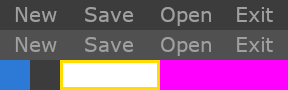
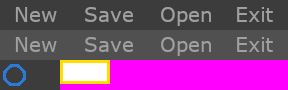
level editor

Changed region(s): [[0.1875, 0.6667, 0.5625, 1.0], [0.0, 0.6667, 0.125, 1.0]]

diff --git a/source/leveleditor.c b/source/leveleditor.c
@@ -2,43 +2,56 @@
 
 #include<stdio.h>
 #include<stdlib.h>
+#include<string.h>
 
 extern HeroCore* core;
 
-static void leveleditorclose(void**ptr);
+static void levelEditorclose(void**ptr);
 static void constructToolWidget(GameLevelEditor* levelEditor);
 static void update(GameLevelEditor* levelEditor);
 static void draw(GameLevelEditor* levelEditor);
+static void loadBricksInfo(GameLevelEditor* levelEditor);
+static void selectBrick(GameLevelEditor* levelEditor, uint32_t index);
 
+static void newBtnClick(void* arg);
+static void saveBtnClick(void* arg);
+static void openBtnClick(void* arg);
+static void exitBtnClick(void* arg);
 
 void* gameLevelEditorInit()
 {
-  GameLevelEditor* leveleditor = (GameLevelEditor*)malloc(sizeof(GameLevelEditor));
+  GameLevelEditor* levelEditor = (GameLevelEditor*)malloc(sizeof(GameLevelEditor));
+  levelEditor->changed = false;
+  levelEditor->currentBrick = 0;
 
-  leveleditor->input = heroCoreModuleGet(core, "input");
+  levelEditor->input = heroCoreModuleGet(core, "input");
 
-  leveleditor->shader = heroShaderLoad("assets/shaders/shader.vert","assets/shaders/shader.frag");
-  leveleditor->levelEditorSpriteSheet = gameSpriteSheetLoad("assets/debug/LevelEditor.he");
+  levelEditor->shader = heroShaderLoad("assets/shaders/shader.vert","assets/shaders/shader.frag");
+  levelEditor->levelEditorSpriteSheet = gameSpriteSheetLoad("assets/debug/LevelEditor.he");
+  levelEditor->brickSpriteSheet = gameSpriteSheetLoad("assets/sprites/Bricks.he");
+  loadBricksInfo(levelEditor);
 
-  leveleditor->mainWindow = heroCoreModuleGet(core, "window");
-  leveleditor->mainSdlWindow = heroWindowGetSdlWindow(leveleditor->mainWindow);
-  heroWindowSetBackgroundColor(leveleditor->mainWindow, (HeroColor){0,255,0,255});
+  levelEditor->mainWindow = heroCoreModuleGet(core, "window");
+  levelEditor->mainSdlWindow = heroWindowGetSdlWindow(levelEditor->mainWindow);
+  heroWindowSetBackgroundColor(levelEditor->mainWindow, (HeroColor){0,255,0,255});
 
-  leveleditor->mainSpriteBatch = heroSpriteBatchInit(leveleditor->mainWindow, 10, 10, leveleditor->shader);
+  levelEditor->mainSpriteBatch = heroSpriteBatchInit(levelEditor->mainWindow, 10, 10, levelEditor->shader);
 
 
-  leveleditor->toolWindow = heroWindowInit("LevelEditorTools", 640, 480, 0);
-  heroWindowSetBackgroundColor(leveleditor->toolWindow, (HeroColor){0x1E,0x1E,0x1E,0xFF});
-  heroWindowSetEvent(leveleditor->toolWindow, HERO_WINDOW_CLOSE, leveleditorclose);
-  leveleditor->toolSdlWindow = heroWindowGetSdlWindow(leveleditor->toolWindow);
+  levelEditor->toolWindow = heroWindowInit("LevelEditorTools", 640, 480, 0);
+  glEnable( GL_BLEND );
+  glBlendFunc( GL_SRC_ALPHA, GL_ONE_MINUS_SRC_ALPHA );
+  heroWindowSetBackgroundColor(levelEditor->toolWindow, (HeroColor){0x1E,0x1E,0x1E,0xFF});
+  heroWindowSetEvent(levelEditor->toolWindow, HERO_WINDOW_CLOSE, levelEditorclose);
+  levelEditor->toolSdlWindow = heroWindowGetSdlWindow(levelEditor->toolWindow);
   HeroEvent* event = heroCoreModuleGet(core, "event");
-  heroEventAddWindow(event, leveleditor->toolWindow);
+  heroEventAddWindow(event, levelEditor->toolWindow);
 
-  leveleditor->toolSpriteBatch = heroSpriteBatchInit(leveleditor->toolWindow, 10, 10, leveleditor->shader);
+  levelEditor->toolSpriteBatch = heroSpriteBatchInit(levelEditor->toolWindow, 10, 10, levelEditor->shader);
 
-  constructToolWidget(leveleditor);
+  constructToolWidget(levelEditor);
 
-  return leveleditor;
+  return levelEditor;
 }
 
 void gameLevelEditorUpdate(void* ptr)
@@ -53,17 +66,25 @@ void gameLevelEditorUpdate(void* ptr)
 
 void gameLevelEditorDestroy(void* ptr)
 {
-  GameLevelEditor* leveleditor = (GameLevelEditor*)ptr;
+  GameLevelEditor* levelEditor = (GameLevelEditor*)ptr;
 
-  gameSpriteSheetUnload(leveleditor->levelEditorSpriteSheet);
+  uiWidgetDestroy(levelEditor->toolWidget);
 
-  heroShaderUnload(leveleditor->shader);
-  heroSpriteBatchDestroy(leveleditor->toolSpriteBatch);
-  heroSpriteBatchDestroy(leveleditor->mainSpriteBatch);
+  for(int i = 1; i <= levelEditor->brickSpriteSheet->length; i++)
+  {
+    free(levelEditor->infoText[i]);
+  }
+
+  gameSpriteSheetUnload(levelEditor->levelEditorSpriteSheet);
+  gameSpriteSheetUnload(levelEditor->brickSpriteSheet);
+
+  heroShaderUnload(levelEditor->shader);
+  heroSpriteBatchDestroy(levelEditor->toolSpriteBatch);
+  heroSpriteBatchDestroy(levelEditor->mainSpriteBatch);
 
   HeroEvent* event = heroCoreModuleGet(core, "event");
-  heroEventRemoveWindow(event, leveleditor->toolWindow);
-  heroWindowDestroy(leveleditor->toolWindow);
+  heroEventRemoveWindow(event, levelEditor->toolWindow);
+  heroWindowDestroy(levelEditor->toolWindow);
 
   free(ptr);
 }
@@ -73,6 +94,24 @@ static void update(GameLevelEditor* levelEditor)
   if(heroWindowIsFocused(levelEditor->toolWindow) == true)
   {
     uiWidgetUpdate(levelEditor->toolWidget, levelEditor->input);
+
+    int mouseX, mouseY;
+    heroInputGetMousePosition(levelEditor->input, &mouseX, &mouseY);
+    bool leftMouseClick = heroInputMouseButtonDown(levelEditor->input, HERO_MOUSE_LEFT);
+    if(leftMouseClick == true && mouseX > 70 && mouseX < 570 && mouseY > 100 && mouseY < 340)
+    {
+      int normX = mouseX - 70;
+      int normY = mouseY - 100;
+      int iX = normX / 50;
+      int iY = normY / 24;
+      int index = 10 * iY + iX + 1;
+      if(index > levelEditor->brickSpriteSheet->length)
+      {
+        index = 0;
+      }
+
+      selectBrick(levelEditor, index);
+    }
   }
 }
 
@@ -107,7 +146,7 @@ static void draw(GameLevelEditor* levelEditor)
   }
 }
 
-static void leveleditorclose(void** ptr)
+static void levelEditorclose(void** ptr)
 {
   GameState* state = heroCoreModuleGet(core, "state");
   gameStateChange(state, GAMESTATE_MENU);
@@ -128,6 +167,7 @@ static void constructToolWidget(GameLevelEditor* levelEditor)
   uiButtonSetStateRect(levelEditor->toolWidget->buttons[0],UIBUTTONSTATE_NORMAL,normal);
   uiButtonSetStateRect(levelEditor->toolWidget->buttons[0],UIBUTTONSTATE_HOVER,highlight);
   uiButtonSetStateRect(levelEditor->toolWidget->buttons[0],UIBUTTONSTATE_CLICK,highlight);
+  uiButtonSetClickFunc(levelEditor->toolWidget->buttons[0], newBtnClick, NULL);
 
   normal = gameSpriteSheetGetRect(levelEditor->levelEditorSpriteSheet, 
     gameSpriteSheetGet(levelEditor->levelEditorSpriteSheet, "saveBtnD"));
@@ -138,6 +178,7 @@ static void constructToolWidget(GameLevelEditor* levelEditor)
   uiButtonSetStateRect(levelEditor->toolWidget->buttons[1],UIBUTTONSTATE_NORMAL,normal);
   uiButtonSetStateRect(levelEditor->toolWidget->buttons[1],UIBUTTONSTATE_HOVER,highlight);
   uiButtonSetStateRect(levelEditor->toolWidget->buttons[1],UIBUTTONSTATE_CLICK,highlight);
+  uiButtonSetClickFunc(levelEditor->toolWidget->buttons[1], saveBtnClick, NULL);
 
   normal = gameSpriteSheetGetRect(levelEditor->levelEditorSpriteSheet, 
     gameSpriteSheetGet(levelEditor->levelEditorSpriteSheet, "openBtnD"));
@@ -148,6 +189,7 @@ static void constructToolWidget(GameLevelEditor* levelEditor)
   uiButtonSetStateRect(levelEditor->toolWidget->buttons[2],UIBUTTONSTATE_NORMAL,normal);
   uiButtonSetStateRect(levelEditor->toolWidget->buttons[2],UIBUTTONSTATE_HOVER,highlight);
   uiButtonSetStateRect(levelEditor->toolWidget->buttons[2],UIBUTTONSTATE_CLICK,highlight);
+  uiButtonSetClickFunc(levelEditor->toolWidget->buttons[2], openBtnClick, NULL);
 
   normal = gameSpriteSheetGetRect(levelEditor->levelEditorSpriteSheet, 
     gameSpriteSheetGet(levelEditor->levelEditorSpriteSheet, "exitBtnD"));
@@ -158,19 +200,121 @@ static void constructToolWidget(GameLevelEditor* levelEditor)
   uiButtonSetStateRect(levelEditor->toolWidget->buttons[3],UIBUTTONSTATE_NORMAL,normal);
   uiButtonSetStateRect(levelEditor->toolWidget->buttons[3],UIBUTTONSTATE_HOVER,highlight);
   uiButtonSetStateRect(levelEditor->toolWidget->buttons[3],UIBUTTONSTATE_CLICK,highlight);
+  uiButtonSetClickFunc(levelEditor->toolWidget->buttons[3], exitBtnClick, NULL);
 
-  levelEditor->toolWidget->imageNumber = 3;
+  levelEditor->toolWidget->imageNumber = 6;
   levelEditor->toolWidget->images = (UIImage**)malloc(levelEditor->toolWidget->imageNumber * sizeof(UIImage*));
   levelEditor->toolWidget->images[0] = uiImageCreate(levelEditor->levelEditorSpriteSheet->texture,
     (HeroInt2){0,0}, (HeroInt2){30,30});
   uiImageSetRect(levelEditor->toolWidget->images[0], gameSpriteSheetGetRect(levelEditor->levelEditorSpriteSheet, 
     gameSpriteSheetGet(levelEditor->levelEditorSpriteSheet, "logo")));
   levelEditor->toolWidget->images[1] = uiImageCreate(levelEditor->levelEditorSpriteSheet->texture,
-    (HeroInt2){65,65}, (HeroInt2){510,310});
+    (HeroInt2){65,95}, (HeroInt2){510,250});
   uiImageSetRect(levelEditor->toolWidget->images[1], gameSpriteSheetGetRect(levelEditor->levelEditorSpriteSheet, 
     gameSpriteSheetGet(levelEditor->levelEditorSpriteSheet, "panel")));
   levelEditor->toolWidget->images[2] = uiImageCreate(levelEditor->levelEditorSpriteSheet->texture,
     (HeroInt2){0,420}, (HeroInt2){640,60});
   uiImageSetRect(levelEditor->toolWidget->images[2], gameSpriteSheetGetRect(levelEditor->levelEditorSpriteSheet, 
     gameSpriteSheetGet(levelEditor->levelEditorSpriteSheet, "panel")));
+  levelEditor->toolWidget->images[3] = uiImageCreate(levelEditor->levelEditorSpriteSheet->texture,
+    (HeroInt2){normal.z+30,0}, (HeroInt2){640-normal.z,30});
+  uiImageSetRect(levelEditor->toolWidget->images[3], gameSpriteSheetGetRect(levelEditor->levelEditorSpriteSheet, 
+    gameSpriteSheetGet(levelEditor->levelEditorSpriteSheet, "panel")));
+  levelEditor->toolWidget->images[4] = uiImageCreate(levelEditor->brickSpriteSheet->texture,
+    (HeroInt2){70,100}, (HeroInt2){500,240});
+  levelEditor->toolWidget->images[5] = uiImageCreate(levelEditor->levelEditorSpriteSheet->texture,
+    (HeroInt2){70,100}, (HeroInt2){50,24});
+  uiImageSetRect(levelEditor->toolWidget->images[5], gameSpriteSheetGetRect(levelEditor->levelEditorSpriteSheet, 
+    gameSpriteSheetGet(levelEditor->levelEditorSpriteSheet, "highlight")));
+  levelEditor->toolWidget->images[5]->visible = false;
+
+  levelEditor->toolWidget->labelNumber = levelEditor->brickSpriteSheet->length + 1;
+  levelEditor->toolWidget->labels = (UILabel**)malloc(levelEditor->toolWidget->labelNumber * sizeof(UILabel*));
+  HeroFont* font = heroFontLoad("assets/fonts/arial.ttf", 18);
+  for(int i = 0; i <= levelEditor->brickSpriteSheet->length; i++)
+  {
+    levelEditor->toolWidget->labels[i] = uiLabelCreate(levelEditor->infoText[i], font, (HeroColor){255,255,255,255},
+     UIALLIGMENT_TOPLEFT, (HeroInt2){5,425}, (HeroInt2){630,50});
+    levelEditor->toolWidget->labels[i]->visible = false;
+  }
+  levelEditor->toolWidget->labels[0]->visible = true;
+
+  heroFontUnload(font);
+}
+
+static void loadBricksInfo(GameLevelEditor* levelEditor)
+{
+  levelEditor->infoText = (char**)malloc(
+    (levelEditor->brickSpriteSheet->length + 1) * sizeof(char*));
+  memset(levelEditor->infoText, 0, (levelEditor->brickSpriteSheet->length + 1) * sizeof(char*));
+  levelEditor->infoText[0] = "None";
+
+  FILE* file = fopen("assets/debug/BricksInfo.txt", "r");
+  if(!file)
+  {
+    printf("Could not load bricks info file!\n");
+    exit(-1);
+  }
+
+  size_t bufferSize;
+  for(int i = 1; i <= levelEditor->brickSpriteSheet->length; i++)
+  {
+    getline(&levelEditor->infoText[i], &bufferSize, file);
+    uint32_t lastChar = strlen(levelEditor->infoText[i]) - 1;
+    levelEditor->infoText[i][lastChar] = ' ';
+  }
+
+  fclose(file);
+}
+
+static void selectBrick(GameLevelEditor* levelEditor, uint32_t index)
+{
+  levelEditor->toolWidget->labels[levelEditor->currentBrick]->visible = false;
+
+  if(levelEditor->currentBrick == index || index == 0)
+  {
+    levelEditor->toolWidget->images[5]->visible = false;
+    levelEditor->currentBrick = 0;
+    levelEditor->toolWidget->labels[0]->visible = true;
+    printf("[Level editor] Brick selection: %d\n", 0);
+
+    return;
+  }
+  
+  levelEditor->toolWidget->images[5]->visible = true;
+  levelEditor->toolWidget->labels[index]->visible = true;
+  levelEditor->currentBrick = index;
+
+  index--;
+
+  int iX = index % 10;
+  int iY = index / 10;
+  int posX = iX * 50;
+  int posY = iY * 24;
+  posX += 70;
+  posY += 100;
+  levelEditor->toolWidget->images[5]->position = (HeroInt2){ posX, posY };
+
+  printf("[Level editor] Brick selection: %d\n", levelEditor->currentBrick);
+}
+
+static void newBtnClick(void* arg)
+{
+  printf("new click\n");
+}
+
+static void saveBtnClick(void* arg)
+{
+  printf("save click\n");
+}
+
+static void openBtnClick(void* arg)
+{
+  printf("open click\n");
+}
+
+static void exitBtnClick(void* arg)
+{
+  GameState* state = heroCoreModuleGet(core, "state");
+  gameStateChange(state, GAMESTATE_MENU);
 }

diff --git a/source/ui.c b/source/ui.c
@@ -87,7 +87,8 @@ UIImage* uiImageCreate(HeroTexture* texture, HeroInt2 position, HeroInt2 size)
   image->position = position;
   image->size = size;
   image->rect = (HeroInt4){0,0,size.x,size.y};
-
+  image->visible = true;
+  
   return image;
 }
 
@@ -103,6 +104,10 @@ void uiImageDraw(UIImage** images, uint32_t number, HeroSpriteBatch* spriteBatch
   for(int i = 0; i < number; i++)
   {
     UIImage* image = images[i];
+    if(image->visible == false)
+    {
+      continue;
+    }
     heroSpriteBatchDrawTextureEx(spriteBatch, image->texture, image->position, image->size, image->rect, 0.0f, color);
   }
 }
@@ -115,7 +120,7 @@ void uiImageDestroy(UIImage* image)
 UILabel* uiLabelCreate(const char* text, HeroFont* font, HeroColor color, UIAlligment alligment, HeroInt2 position, HeroInt2 size)
 {
   UILabel* label = (UILabel*)malloc(sizeof(UILabel));
-
+  label->visible = true;
   label->texture = heroTextureFromText(text, &color, font, 0);
   HeroInt2 textureSize = heroTextureGetSize(label->texture);
 
@@ -186,6 +191,11 @@ void uiLabelDraw(UILabel** labels, uint32_t number, HeroSpriteBatch* spriteBatch
   for(int i = 0; i < number; i++)
   {
     UILabel* label = labels[i];
+    if(label->visible == false)
+    {
+      continue;
+    }
+
     heroSpriteBatchDrawTextureEx(spriteBatch, label->texture, label->position, label->size, label->rect, 0.0f, color);
   }
 }
@@ -195,6 +205,7 @@ void uiLabelDestroy(UILabel* label)
   heroTextureUnload(label->texture);
   free(label);
 }
+
 
 UIWidget* uiWidgetCreate()
 {

diff --git a/source/state.c b/source/state.c
@@ -3,6 +3,9 @@
 #include<stdlib.h>
 #include<stdio.h>
 
+#define str(x) #x
+#define xstr(x) str(x)
+
 static void checkState(GameState* gameState);
 
 GameState* gameStateInit()
@@ -59,7 +62,7 @@ static void checkState(GameState* gameState)
 
   gameState->destory[(int)gameState->currentState](gameState->currentStateData);
   gameState->currentState = gameState->nextState;
-  printf("change state = %d\n", (int)gameState->currentState);
+  DEBUG_CODE(printf("[Game state] current state number: %d\n", (int)gameState->currentState);)
   gameState->currentStateData = gameState->init[(int)gameState->currentState]();
   gameState->nextState = GAMESTATE_NONE;
 }

diff --git a/include/Game/ui.h b/include/Game/ui.h
@@ -38,6 +38,7 @@ typedef struct
   HeroInt2 position;
   HeroInt2 size;
   HeroInt4 rect;
+  bool visible;
 } UIImage;
 
 UIImage* uiImageCreate(HeroTexture* texture, HeroInt2 position, HeroInt2 size);
@@ -65,6 +66,7 @@ typedef struct
   HeroInt2 size;
   HeroInt4 rect;
   HeroColor color;
+  bool visible;
 } UILabel;
 
 UILabel* uiLabelCreate(const char* text, HeroFont* font, HeroColor color, UIAlligment alligment, HeroInt2 position, HeroInt2 size);

diff --git a/source/menu.c b/source/menu.c
@@ -60,7 +60,6 @@ void gameMenuUpdate(void* ptr)
   DEBUG_CODE(
     if(heroInputKeyPressed(menu->input, HERO_KEYCODE_LCTRL) && 
       heroInputKeyPressed(menu->input, HERO_KEYCODE_L)){
-        printf("leveleditor\n");
         GameState* state = heroCoreModuleGet(core, "state");
         gameStateChange(state, GAMESTATE_LEVELEDITOR);
       }

diff --git a/include/Game/leveleditor.h b/include/Game/leveleditor.h
@@ -23,8 +23,12 @@ typedef struct
   HeroShader* shader;
 
   GameSpriteSheet* levelEditorSpriteSheet;
-
+  GameSpriteSheet* brickSpriteSheet;
+  char** infoText;
   UIWidget* toolWidget;
+
+  bool changed;
+  uint32_t currentBrick;
 } GameLevelEditor;
 
 void* gameLevelEditorInit();
